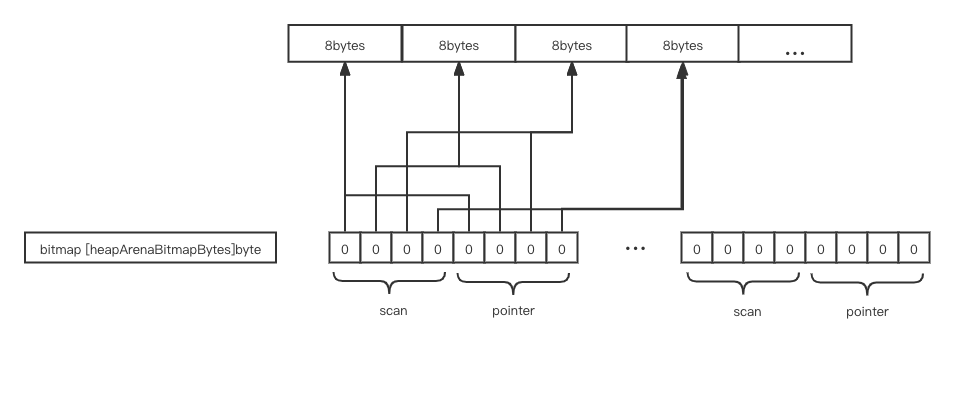
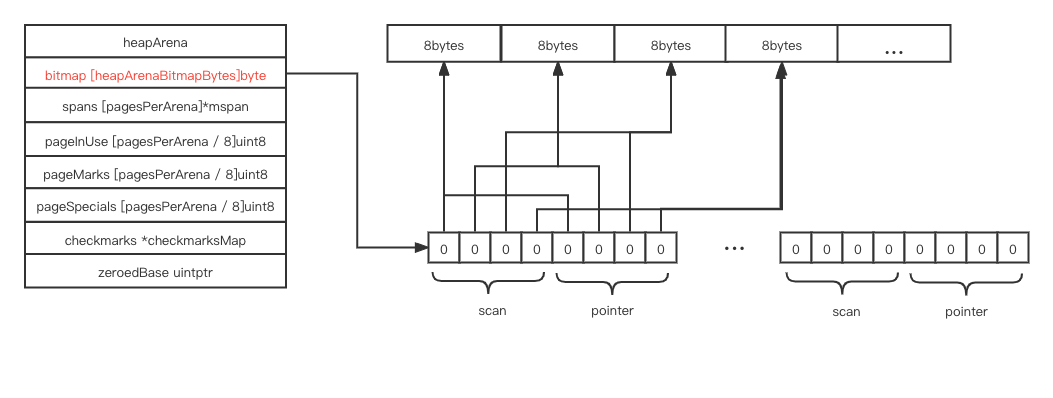
arena bitmap update

diff --git a/runtime/memory_management/memory_management.md b/runtime/memory_management/memory_management.md
@@ -4,6 +4,8 @@
 
 [related file](#related-file)
 
+[overview](#overview)
+
 [span](#span)
 
 [mallocgc](#mallocgc)
@@ -317,7 +319,19 @@ This is type object of `smallStruct` go generated in runtime
 
 ![type_smallStruct](./type_smallStruct.png)
 
-Their relation
+Their relation can be described as
+
+![type_smallStruct_relation](./type_smallStruct_relation.png)
+
+Because the total size is 384, <= 32kb, the `sizeclass` 22, the `noscan` flag is `false`, so the latter one will be chosen
+
+After it gets a block from `span`, `heapBitsSetType` will be called
+
+This is what `heapBitsSetType` do
+
+It finds the corresponding `arena`, and sets the `bitmap` in the corresponding `heapArena`
+
+![type_smallStruct_arena](type_smallStruct_arena.png)
 
 
 
